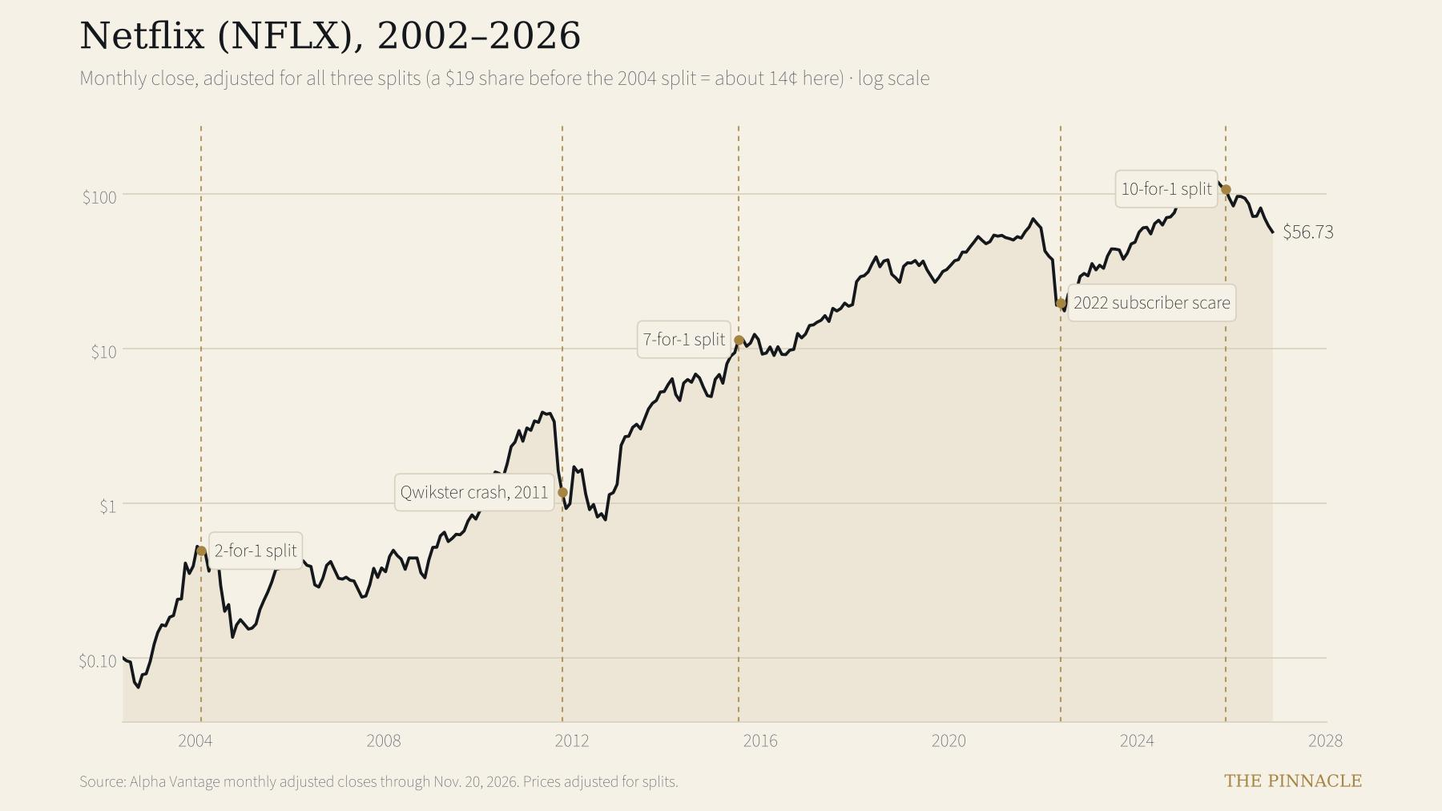
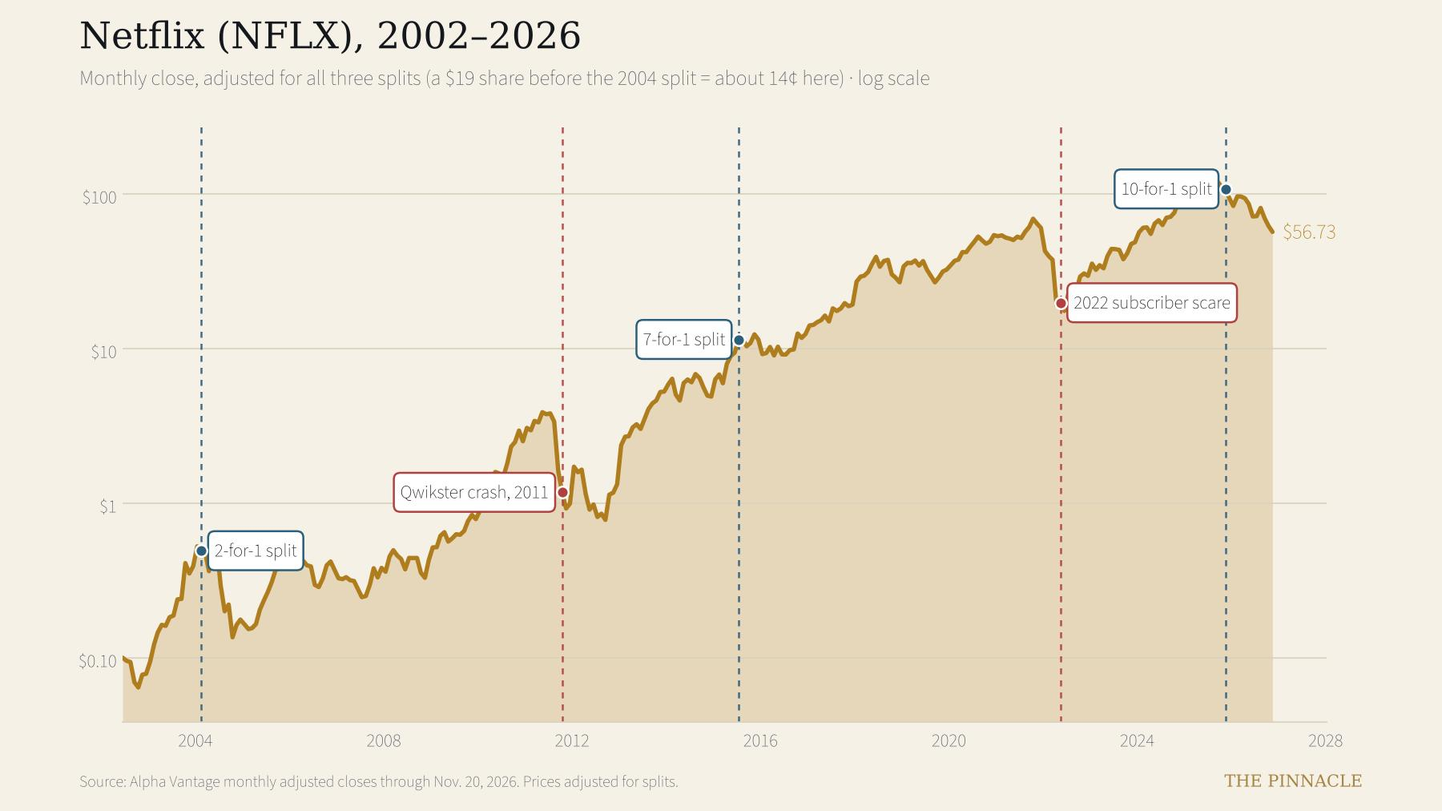
Replace AI images with real photos and charts, color charts, localize gallery art
Claude-Session: https://claude.ai/code/session_01HagCEcyDgnEGoPAKDJY6TT

diff --git a/articles/the-netflix-origin-story.html b/articles/the-netflix-origin-story.html
@@ -828,7 +828,7 @@
       </figure>
 
       <div class="article-body">
-        <p>This is the story of a tremendous win or a colossal mistake, depending on your perspective. </p><p>It begins in the mid-2000s. Cell phones were exciting and surf cams were becoming a thing. </p><p>I was still young, but I had been through a few heavy years.</p><p>After finishing a master’s in HR and Organizational Development, I landed a job I thought would launch my career. Then a health issue sidelined me and I missed a lot of work. </p><p>When I returned, I wasn’t fully myself. Eventually, I was let go.</p><p>After a few discouraging months, Prudential California Realty took a chance on me. I was hired as an administrative assistant at a branch near my apartment. It wasn’t a dream job, but I was grateful and unexpectedly intrigued by real estate.</p><p>That role eventually evolved into copywriting with the company’s corporate marketing department. The firm is now Berkshire Hathaway HomeServices California Properties, and I still work with many of the same people today. But that’s another story.</p><p>At the time, part of my job included covering the front desk for Annette, the receptionist, when she stepped out for a smoke.</p><p>I had just quit because of my health issue. I was irritable. I had gained weight and I was constantly craving nicotine. </p><p>Watching Annette head outside for a cigarette while I sat there chewing nicotine gum was truly painful.</p><p>To put it simply, I was jealous.</p><p>Meanwhile, she seemed completely unbothered by life and kept encouraging me to invest in the stock market.</p><p>“If you’re sitting here anyway,” she’d say, “you might as well learn how money works.”</p><p>Annette, if you’re somehow reading this, thank you.</p><p>I opened a brokerage account and signed up for a trial of The Motley Fool. Today I use platforms like Schwab, Interactive Brokers, and others (linked below if you’re curious).</p><p>One of The Motley Fool’s top picks at the time was Netflix.</p><p>I could never make it to Blockbuster to avoid their late fee so I was already a customer.</p><p>Having DVDs delivered to my tiny apartment felt revolutionary, and it was always a nice surprise to see the red envelope in the mailbox. </p><p>So I scraped $190 together and bought 10 shares of NFLX at $19.</p><p>It was a huge move for me. Not because $190 is small today, but at the time it felt especially significant. </p><p>I clearly remember the sense of anxiety and excitement when I was sitting at the front desk at Prudential and clicking the “Buy” button. </p><p>Incidentally, buying shares of companies you personally use and understand is an idea popularized by Peter Lynch in <i>One Up On Wall Street</i>. </p><p>I didn’t have a clue about that when I bought the stock, but the Motley Fool research seemed well-reasoned and I liked Netflix.</p><p>Here’s a link to the Peter Lynch book and a few others: </p><ul><li><p><b><a href="https://www.simonandschuster.com/books/One-Up-On-Wall-Street/Peter-Lynch/9780743200400" rel="noopener noreferrer nofollow" target="_blank">One Up On Wall Street</a></b> by Peter Lynch – The definitive guide on how to use what you already know (like my early love for Netflix) to find winning investments before the pros do.</p></li><li><p><b><a href="https://www.amazon.com/Psychology-Money-Timeless-lessons-happiness/dp/0857197610" rel="noopener noreferrer nofollow" target="_blank">The Psychology of Money</a></b> by Morgan Housel – An essential read for understanding that doing well with money isn’t necessarily about what you know; it’s about how you behave.</p></li><li><p><b><a href="https://www.magicformulainvesting.com/" rel="noopener noreferrer nofollow" target="_blank">The Little Book That Still Beats the Market</a></b> by Joel Greenblatt – A masterclass in &quot;Magic Formula&quot; investing that simplifies complex market dynamics into a strategy anyone can follow.</p></li></ul><p>Anyway, back to the story…which is, of course, an “exciting” tale of research and waiting. </p><p>Trades cost $7 back then (at Scottrade). It wasn’t (mostly free) like it is today. I didn’t fully understand exit strategies or position sizing. I just knew I didn’t want to pay commissions unless it was absolutely necessary.</p><p>The stock hit $44 and I couldn’t believe it. I was such a genius!</p><p>I had more than doubled my money in a short period of time, so I sold. I was afraid the stock would fall and my gains would disappear. </p><p>What I didn’t understand is that volatility can feel dangerous in the short term, but it is often the price of admission for extraordinary long-term returns.</p><p>If I had just had the courage to hold those 10 shares, they would be worth a staggering amount today.</p><p>That’s the difference between being right and being patient.</p><p>It’s been 20 years, and I still think about that trade.</p><p>Not because I regret the lesson.</p><p>But because I now understand what I was missing: conviction.</p><p>This story aligns with others, like <a href="the-story-of-xpo-logistics.html" rel="noopener noreferrer nofollow" target="_blank">XPO Logistics</a>, that can either be framed as incredible wins or painful missteps, depending on your time horizon.</p><p>I’m not here to pretend I’ve never made mistakes. </p><p>I’m here to show what the mistakes teach. The market can be humbling and I have often thought about what could have been. </p><p>The idea that $190 can turn into $444 remains intriguing. Losing out on $190K? Really sad, however, it’s kept me motivated to think that $190 could turn into nearly $108,000. </p><p>Anyone who has spent time in the markets understands the emotional tension:</p><ul><li><p>Selling too early</p></li><li><p>Holding too long</p></li><li><p>Watching a stock soar the day after you exit</p></li></ul><p>It can feel personal.</p><p>It isn’t.</p><p>The market doesn’t reward comfort.<br />It rewards conviction and time.</p><p>I had one.</p><p>I lacked the other.</p><p>Here are platforms I’ve used over the years in case this story resonates:</p><p>• <a href="https://www.schwab.com/client-referral?refrid=REFERWV2SI" rel="noopener noreferrer nofollow" target="_blank">Charles Schwab</a> - My go-to for <b>comprehensive research</b> and the powerful <b>thinkorswim</b> trading platform. Great for a &quot;do-it-all&quot; primary account.</p><p>• <a href="https://www.wealthfront.com/c/affiliates/invited/AFFD-A0HR-9S7A-IKDZ" rel="noopener noreferrer nofollow" target="_blank">Wealthfront</a> - Perfect for <b>automated, hands-off investing</b>. I love their &quot;Path&quot; tool for long-term planning and their high-yield cash account.</p><p>• <a href="https://ibkr.com/referral/fritts293" rel="noopener noreferrer nofollow" target="_blank">Interactive Brokers</a> - Great for <b>active traders</b>. They offer access to nearly every global market you can think of and stop-limit orders outside of regular hours!</p><p>• <a href="https://join.robinhood.com/frittsc-697bc7" rel="noopener noreferrer nofollow" target="_blank">Robinhood</a> - The best <b>mobile experience</b> for beginners. They’ve also added a great 3% match for Gold members on IRAs, which is hard to beat for retirement savings.</p><p><b>Disclaimer:</b> <i>This post is for informational purposes only and does not constitute financial advice. Some links above are referral links; I may receive a bonus if you sign up, at no extra cost to you. Always do your own research.</i></p><p><b>P.S.</b> For those wondering about the $108,000 math: Between 2004 and 2025, Netflix had three stock splits (2-for-1, 7-for-1, and 10-for-1). Those original 10 shares would have multiplied into <b>1,400 shares</b> today. It's a staggering reminder of the power of compounding.<br /></p>
+        <p>This is the story of a tremendous win or a colossal mistake, depending on your perspective. </p><p>It begins in the mid-2000s. Cell phones were exciting and surf cams were becoming a thing. </p><p>I was still young, but I had been through a few heavy years.</p><p>After finishing a master’s in HR and Organizational Development, I landed a job I thought would launch my career. Then a health issue sidelined me and I missed a lot of work. </p><p>When I returned, I wasn’t fully myself. Eventually, I was let go.</p><p>After a few discouraging months, Prudential California Realty took a chance on me. I was hired as an administrative assistant at a branch near my apartment. It wasn’t a dream job, but I was grateful and unexpectedly intrigued by real estate.</p><p>That role eventually evolved into copywriting with the company’s corporate marketing department. The firm is now Berkshire Hathaway HomeServices California Properties, and I still work with many of the same people today. But that’s another story.</p><p>At the time, part of my job included covering the front desk for Annette, the receptionist, when she stepped out for a smoke.</p><p>I had just quit because of my health issue. I was irritable. I had gained weight and I was constantly craving nicotine. </p><p>Watching Annette head outside for a cigarette while I sat there chewing nicotine gum was truly painful.</p><p>To put it simply, I was jealous.</p><p>Meanwhile, she seemed completely unbothered by life and kept encouraging me to invest in the stock market.</p><p>“If you’re sitting here anyway,” she’d say, “you might as well learn how money works.”</p><p>Annette, if you’re somehow reading this, thank you.</p><p>I opened a brokerage account and signed up for a trial of The Motley Fool. Today I use platforms like Schwab, Interactive Brokers, and others (linked below if you’re curious).</p><p>One of The Motley Fool’s top picks at the time was Netflix.</p><p>I could never make it to Blockbuster to avoid their late fee so I was already a customer.</p><p>Having DVDs delivered to my tiny apartment felt revolutionary, and it was always a nice surprise to see the red envelope in the mailbox. </p><p>So I scraped $190 together and bought 10 shares of NFLX at $19.</p><p>It was a huge move for me. Not because $190 is small today, but at the time it felt especially significant. </p><p>I clearly remember the sense of anxiety and excitement when I was sitting at the front desk at Prudential and clicking the “Buy” button. </p><p>Incidentally, buying shares of companies you personally use and understand is an idea popularized by Peter Lynch in <i>One Up On Wall Street</i>. </p><p>I didn’t have a clue about that when I bought the stock, but the Motley Fool research seemed well-reasoned and I liked Netflix.</p><p>Here’s a link to the Peter Lynch book and a few others: </p><ul><li><p><b><a href="https://www.simonandschuster.com/books/One-Up-On-Wall-Street/Peter-Lynch/9780743200400" rel="noopener noreferrer nofollow" target="_blank">One Up On Wall Street</a></b> by Peter Lynch – The definitive guide on how to use what you already know (like my early love for Netflix) to find winning investments before the pros do.</p></li><li><p><b><a href="https://www.amazon.com/Psychology-Money-Timeless-lessons-happiness/dp/0857197610" rel="noopener noreferrer nofollow" target="_blank">The Psychology of Money</a></b> by Morgan Housel – An essential read for understanding that doing well with money isn’t necessarily about what you know; it’s about how you behave.</p></li><li><p><b><a href="https://www.magicformulainvesting.com/" rel="noopener noreferrer nofollow" target="_blank">The Little Book That Still Beats the Market</a></b> by Joel Greenblatt – A masterclass in &quot;Magic Formula&quot; investing that simplifies complex market dynamics into a strategy anyone can follow.</p></li></ul><p>Anyway, back to the story…which is, of course, an “exciting” tale of research and waiting. </p><p>Trades cost $7 back then (at Scottrade). It wasn’t (mostly free) like it is today. I didn’t fully understand exit strategies or position sizing. I just knew I didn’t want to pay commissions unless it was absolutely necessary.</p><p>The stock hit $44 and I couldn’t believe it. I was such a genius!</p><p>I had more than doubled my money in a short period of time, so I sold. I was afraid the stock would fall and my gains would disappear. </p><p>What I didn’t understand is that volatility can feel dangerous in the short term, but it is often the price of admission for extraordinary long-term returns.</p><p>If I had just had the courage to hold those 10 shares, they would be worth a staggering amount today.</p><p>That’s the difference between being right and being patient.</p><p>It’s been 20 years, and I still think about that trade.</p><p>Not because I regret the lesson.</p><p>But because I now understand what I was missing: conviction.</p><p>This story aligns with others, like <a href="the-story-of-xpo-logistics.html" rel="noopener noreferrer nofollow" target="_blank">XPO Logistics</a>, that can either be framed as incredible wins or painful missteps, depending on your time horizon.</p><p>I’m not here to pretend I’ve never made mistakes. </p><p>I’m here to show what the mistakes teach. The market can be humbling and I have often thought about what could have been. </p><p>The idea that $190 can turn into $444 remains intriguing. Losing out on six figures? Really sad. Still, it keeps me motivated to remember that $190 could have turned into nearly $108,000 at the stock’s early-2026 high, and still about $79,000 at today’s price. </p><p>Anyone who has spent time in the markets understands the emotional tension:</p><ul><li><p>Selling too early</p></li><li><p>Holding too long</p></li><li><p>Watching a stock soar the day after you exit</p></li></ul><p>It can feel personal.</p><p>It isn’t.</p><p>The market doesn’t reward comfort.<br />It rewards conviction and time.</p><p>I had one.</p><p>I lacked the other.</p><p>Here are platforms I’ve used over the years in case this story resonates:</p><p>• <a href="https://www.schwab.com/client-referral?refrid=REFERWV2SI" rel="noopener noreferrer nofollow" target="_blank">Charles Schwab</a> - My go-to for <b>comprehensive research</b> and the powerful <b>thinkorswim</b> trading platform. Great for a &quot;do-it-all&quot; primary account.</p><p>• <a href="https://www.wealthfront.com/c/affiliates/invited/AFFD-A0HR-9S7A-IKDZ" rel="noopener noreferrer nofollow" target="_blank">Wealthfront</a> - Perfect for <b>automated, hands-off investing</b>. I love their &quot;Path&quot; tool for long-term planning and their high-yield cash account.</p><p>• <a href="https://ibkr.com/referral/fritts293" rel="noopener noreferrer nofollow" target="_blank">Interactive Brokers</a> - Great for <b>active traders</b>. They offer access to nearly every global market you can think of and stop-limit orders outside of regular hours!</p><p>• <a href="https://join.robinhood.com/frittsc-697bc7" rel="noopener noreferrer nofollow" target="_blank">Robinhood</a> - The best <b>mobile experience</b> for beginners. They’ve also added a great 3% match for Gold members on IRAs, which is hard to beat for retirement savings.</p><p><b>Disclaimer:</b> <i>This post is for informational purposes only and does not constitute financial advice. Some links above are referral links; I may receive a bonus if you sign up, at no extra cost to you. Always do your own research.</i></p><p><b>P.S.</b> For those wondering about the $108,000 math: Between 2004 and 2025, Netflix had three stock splits (2-for-1, 7-for-1, and 10-for-1). Those original 10 shares would have multiplied into <b>1,400 shares</b> today. At about $77 a share in February 2026, that was roughly $107,800; at $56.73 on November 20, 2026, it’s about $79,400. It's a staggering reminder of the power of compounding.<br /></p>
       </div>
 
       <div class="article-tags">

diff --git a/index.html b/index.html
@@ -916,7 +916,7 @@
       </article>
       <article class="card">
         <a href="articles/legacy-yields-a-tale-of-two-buffetts.html" style="display:block;text-decoration:none;color:inherit;">
-          <div class="card-image lifestyle" style="background: linear-gradient(180deg, rgba(20,23,28,0.0) 60%, rgba(20,23,28,0.4) 100%), url('images/jimmy-buffett-warren-buffett-philanthropy.jpg'); background-size: cover; background-position: center top;"></div>
+          <div class="card-image lifestyle" style="background: linear-gradient(180deg, rgba(20,23,28,0.0) 60%, rgba(20,23,28,0.4) 100%), url('images/jimmy-and-warren-buffett.jpg'); background-size: cover; background-position: center top;"></div>
           <div class="card-category">Lifestyle</div>
           <h3>Legacy Yields: A Tale of Two Buffetts</h3>
           <p>How Warren Buffett and Jimmy Buffett built two of the most consequential philanthropic legacies in American life, and why the Giving Pledge increasingly runs on legacy assets.</p>
@@ -934,7 +934,7 @@
       </article>
       <article class="card">
         <a href="articles/is-using-margin-ever-a-good-idea.html" style="display:block;text-decoration:none;color:inherit;">
-          <div class="card-image markets" style="background: linear-gradient(180deg, rgba(20,23,28,0.0) 60%, rgba(20,23,28,0.4) 100%), url('images/ramen-or-financial-stability-pop-art.jpg'); background-size: cover; background-position: center;"></div>
+          <div class="card-image markets" style="background: linear-gradient(180deg, rgba(20,23,28,0.0) 60%, rgba(20,23,28,0.4) 100%), url('images/nyse-crowd-1929.jpg'); background-size: cover; background-position: center;"></div>
           <div class="card-category">Markets</div>
           <h3>Is Using Margin Ever a Good Idea?</h3>
           <p>After 20 years in the markets, the one decision I keep going back to is the one I didn&#x27;t make.</p>
@@ -943,7 +943,7 @@
       </article>
       <article class="card">
         <a href="articles/what-the-margin-data-is-telling-us.html" style="display:block;text-decoration:none;color:inherit;">
-          <div class="card-image markets" style="background: linear-gradient(180deg, rgba(20,23,28,0.0) 60%, rgba(20,23,28,0.4) 100%), url('images/margin-debt-forced-liquidation-cascade.jpg'); background-size: cover; background-position: center top;"></div>
+          <div class="card-image markets" style="background: linear-gradient(180deg, rgba(20,23,28,0.0) 60%, rgba(20,23,28,0.4) 100%), url('images/nyt-crash-1929-headline.jpg'); background-size: cover; background-position: center top;"></div>
           <div class="card-category">Markets</div>
           <h3>What the Margin Data Is Telling Us</h3>
           <p>FINRA, IBKR, and the slow exhale after a record run.</p>
@@ -979,7 +979,7 @@
       </article>
       <article class="card">
         <a href="articles/female-power-players.html" style="display:block;text-decoration:none;color:inherit;">
-          <div class="card-image markets" style="background: linear-gradient(180deg, rgba(20,23,28,0.0) 60%, rgba(20,23,28,0.4) 100%), url('https://media.beehiiv.com/cdn-cgi/image/fit=scale-down,format=auto,onerror=redirect,quality=80/uploads/asset/file/96699286-00a0-4a13-9986-67bf908eeaf2/image.jpg'); background-size: cover; background-position: center;"></div>
+          <div class="card-image markets" style="background: linear-gradient(180deg, rgba(20,23,28,0.0) 60%, rgba(20,23,28,0.4) 100%), url('images/sara-blakely-2012.jpg'); background-size: cover; background-position: center;"></div>
           <div class="card-category">Markets</div>
           <h3>Female Power Players</h3>
           <p>Why the Women Who Built Empires Deserve More Than a Month</p>
@@ -1015,7 +1015,7 @@
       </article>
       <article class="card">
         <a href="articles/stocks-vs-real-estate.html" style="display:block;text-decoration:none;color:inherit;">
-          <div class="card-image markets" style="background: linear-gradient(180deg, rgba(20,23,28,0.0) 60%, rgba(20,23,28,0.4) 100%), url('https://media.beehiiv.com/cdn-cgi/image/fit=scale-down,format=auto,onerror=redirect,quality=80/uploads/asset/file/4863aa6e-33e6-4172-81a1-0bebd9242bd3/Shattered_view_of_home_and_market_rise.png'); background-size: cover; background-position: center;"></div>
+          <div class="card-image markets" style="background: linear-gradient(180deg, rgba(20,23,28,0.0) 60%, rgba(20,23,28,0.4) 100%), url('images/ai-stocks-vs-real-estate.jpg'); background-size: cover; background-position: center;"></div>
           <div class="card-category">Markets</div>
           <h3>Stocks vs. Real Estate: How to Evaluate An Asset Before You Buy</h3>
           <p>Both markets reward patience, punish impulse, and have a long history of hiding problems in plain sight. Here is how I approach both.</p>
@@ -1060,7 +1060,7 @@
       </article>
       <article class="card">
         <a href="articles/the-story-of-the-movie-bottle-shock.html" style="display:block;text-decoration:none;color:inherit;">
-          <div class="card-image lifestyle" style="background: linear-gradient(180deg, rgba(20,23,28,0.0) 60%, rgba(20,23,28,0.4) 100%), url('https://media.beehiiv.com/cdn-cgi/image/fit=scale-down,format=auto,onerror=redirect,quality=80/uploads/asset/file/e2fcec11-0ddf-48b8-b8af-50351b7095ff/California_vineyard_and_wine_history.png'); background-size: cover; background-position: center;"></div>
+          <div class="card-image lifestyle" style="background: linear-gradient(180deg, rgba(20,23,28,0.0) 60%, rgba(20,23,28,0.4) 100%), url('images/napa-valley-vineyard-highsmith.jpg'); background-size: cover; background-position: center;"></div>
           <div class="card-category">Lifestyle</div>
           <h3>The Story of the Movie “Bottle Shock”</h3>
           <p>How Napa Valley Got its Street Cred</p>

diff --git a/categories/markets.html b/categories/markets.html
@@ -841,7 +841,7 @@
     <div class="grid">
       <article class="card">
         <a href="../articles/is-using-margin-ever-a-good-idea.html" style="display:block;text-decoration:none;color:inherit;">
-          <div class="card-image markets" style="background: linear-gradient(180deg, rgba(20,23,28,0.0) 60%, rgba(20,23,28,0.4) 100%), url('../images/ramen-or-financial-stability-pop-art.jpg'); background-size: cover; background-position: center;"></div>
+          <div class="card-image markets" style="background: linear-gradient(180deg, rgba(20,23,28,0.0) 60%, rgba(20,23,28,0.4) 100%), url('../images/nyse-crowd-1929.jpg'); background-size: cover; background-position: center;"></div>
           <div class="card-category">Markets</div>
           <h3>Is Using Margin Ever a Good Idea?</h3>
           <p>After 20 years in the markets, the one decision I keep going back to is the one I didn&#x27;t make.</p>
@@ -850,7 +850,7 @@
       </article>
       <article class="card">
         <a href="../articles/what-the-margin-data-is-telling-us.html" style="display:block;text-decoration:none;color:inherit;">
-          <div class="card-image markets" style="background: linear-gradient(180deg, rgba(20,23,28,0.0) 60%, rgba(20,23,28,0.4) 100%), url('../images/margin-debt-forced-liquidation-cascade.jpg'); background-size: cover; background-position: center top;"></div>
+          <div class="card-image markets" style="background: linear-gradient(180deg, rgba(20,23,28,0.0) 60%, rgba(20,23,28,0.4) 100%), url('../images/nyt-crash-1929-headline.jpg'); background-size: cover; background-position: center top;"></div>
           <div class="card-category">Markets</div>
           <h3>What the Margin Data Is Telling Us</h3>
           <p>FINRA, IBKR, and the slow exhale after a record run.</p>
@@ -859,7 +859,7 @@
       </article>
       <article class="card">
         <a href="../articles/female-power-players.html" style="display:block;text-decoration:none;color:inherit;">
-          <div class="card-image markets" style="background: linear-gradient(180deg, rgba(20,23,28,0.0) 60%, rgba(20,23,28,0.4) 100%), url('https://media.beehiiv.com/cdn-cgi/image/fit=scale-down,format=auto,onerror=redirect,quality=80/uploads/asset/file/96699286-00a0-4a13-9986-67bf908eeaf2/image.jpg'); background-size: cover; background-position: center;"></div>
+          <div class="card-image markets" style="background: linear-gradient(180deg, rgba(20,23,28,0.0) 60%, rgba(20,23,28,0.4) 100%), url('../images/sara-blakely-2012.jpg'); background-size: cover; background-position: center;"></div>
           <div class="card-category">Markets</div>
           <h3>Female Power Players</h3>
           <p>Why the Women Who Built Empires Deserve More Than a Month</p>
@@ -877,7 +877,7 @@
       </article>
       <article class="card">
         <a href="../articles/stocks-vs-real-estate.html" style="display:block;text-decoration:none;color:inherit;">
-          <div class="card-image markets" style="background: linear-gradient(180deg, rgba(20,23,28,0.0) 60%, rgba(20,23,28,0.4) 100%), url('https://media.beehiiv.com/cdn-cgi/image/fit=scale-down,format=auto,onerror=redirect,quality=80/uploads/asset/file/4863aa6e-33e6-4172-81a1-0bebd9242bd3/Shattered_view_of_home_and_market_rise.png'); background-size: cover; background-position: center;"></div>
+          <div class="card-image markets" style="background: linear-gradient(180deg, rgba(20,23,28,0.0) 60%, rgba(20,23,28,0.4) 100%), url('../images/ai-stocks-vs-real-estate.jpg'); background-size: cover; background-position: center;"></div>
           <div class="card-category">Markets</div>
           <h3>Stocks vs. Real Estate: How to Evaluate An Asset Before You Buy</h3>
           <p>Both markets reward patience, punish impulse, and have a long history of hiding problems in plain sight. Here is how I approach both.</p>

diff --git a/articles/is-using-margin-ever-a-good-idea.html b/articles/is-using-margin-ever-a-good-idea.html
@@ -823,9 +823,9 @@
       </header>
 
       <figure class="article-lead-image">
-        <img src="../images/ramen-or-financial-stability-pop-art.jpg" alt="Pop-art illustration of four neon-colored Super Noodles ramen cups — a tongue-in-cheek visual for the choice between Ramen and a $450,000 mortgage at 8 percent.">
+        <img src="../images/nyse-crowd-1929.jpg" alt="Crowds gathered on Wall Street outside the New York Stock Exchange during the October 1929 crash">
         
-      <figcaption>Illustration: AI-generated</figcaption>
+      <figcaption>Crowds outside the New York Stock Exchange, October 1929. Photo: Associated Press, public domain.</figcaption>
       </figure>
 
       <div class="article-body">
@@ -845,7 +845,7 @@
         <p>In the run-up to the <a href="https://www.federalreservehistory.org/essays/stock-market-crash-of-1929" rel="noopener noreferrer" target="_blank">1929 crash</a>, brokers were lending up to <strong>90 percent</strong> of a stock purchase. With such a high amount of leverage, a stock barely had to fall for the equity to vanish, at which point came the dreaded margin call.</p>
         <p>That last word was literal in 1929. The phone would ring, and the broker would inform the account holder that the collateral had eroded and more cash was needed by the end of the day, or the position would be liquidated. The cascading sales when the market started to drop were not panic in the abstract.</p>
         <p>These were forced liquidation events. People who did not have the cash on hand to cover the required 10 percent equity had their stocks sold out from under them at whatever price the market would bear.</p>
-        <figure class="article-inline-image"><img src="../images/bear-market-margin-call-cascade-1929.jpg" alt="Vintage cartoon bear in a bowler hat and three-piece suit skiing down a stock chart, with margin-call notices and red stock tickers flying past, against a 1929-era city backdrop"><figcaption>The dreaded margin call: vintage 1929, dressed in a three-piece suit, very much still alive in 2026.</figcaption></figure>
+        
         <p>The infrastructure of the modern market was being built in real time, as people lost fortunes in moments. The lesson was that 90 percent leverage was not a feature, it was a fuse.</p>
         <p><a href="https://www.federalreserve.gov/supervisionreg/regtcg.htm" rel="noopener noreferrer" target="_blank">Regulation T</a> came out of the Securities Exchange Act of 1934 and capped initial margin at 50 percent. So, the modern math goes like this. An investor puts in $50,000. The broker puts in $50,000. The combined position is $100,000.</p>
         <p>FINRA's regulatory minimum for <a href="https://www.finra.org/investors/insights/margin-calls" rel="noopener noreferrer" target="_blank">maintenance margin</a> is 25 percent, but most retail investors never actually see that floor. Brokerage firms set their own "house requirements," which typically run 30 to 40 percent depending on the security. So, in practice, the cushion before a maintenance call kicks in is closer to 30 percent equity than 25. Once an account hits the line, the "call" still happens, though in modern brokerages it's mostly automated. The broker can liquidate without even calling you first.</p>

diff --git a/articles/bottle-shock.html b/articles/bottle-shock.html
@@ -17,11 +17,11 @@
   <meta property="og:description" content="The true story behind Bottle Shock and the 1976 Judgment of Paris wine tasting that put Napa on the map.">
   <meta property="og:type" content="article">
   <meta property="og:url" content="https://thepinnacle.ink/articles/bottle-shock.html">
-  <meta property="og:image" content="https://media.beehiiv.com/cdn-cgi/image/fit=scale-down,quality=80,format=auto,onerror=redirect/uploads/asset/file/e2fcec11-0ddf-48b8-b8af-50351b7095ff/California_vineyard_and_wine_history.png">
+  <meta property="og:image" content="https://thepinnacle.ink/images/napa-valley-vineyard-highsmith.jpg">
   <meta name="twitter:card" content="summary_large_image">
   <meta name="twitter:title" content="Bottle Shock: How Napa Valley Got its Street Cred | The Pinnacle">
   <meta name="twitter:description" content="The true story behind the 1976 Judgment of Paris wine tasting.">
-  <meta name="twitter:image" content="https://media.beehiiv.com/cdn-cgi/image/fit=scale-down,quality=80,format=auto,onerror=redirect/uploads/asset/file/e2fcec11-0ddf-48b8-b8af-50351b7095ff/California_vineyard_and_wine_history.png">
+  <meta name="twitter:image" content="https://thepinnacle.ink/images/napa-valley-vineyard-highsmith.jpg">
   <link rel="canonical" href="https://thepinnacle.ink/articles/bottle-shock.html">
   <link rel="icon" href="https://media.beehiiv.com/cdn-cgi/image/format=auto,onerror=redirect/uploads/asset/file/8d5e6305-c280-48ad-bbe3-043f383b59fe/paper_hands_logo.png" type="image/png">
   <link rel="preconnect" href="https://fonts.googleapis.com">
@@ -43,7 +43,7 @@
 <div class="article-page-wrapper">
   <div class="article-page-main">
     <div class="article-body">
-      <img class="hero-image" src="https://media.beehiiv.com/cdn-cgi/image/fit=scale-down,quality=80,format=auto,onerror=redirect/uploads/asset/file/e2fcec11-0ddf-48b8-b8af-50351b7095ff/California_vineyard_and_wine_history.png" alt="California Vineyard and Wine History" width="760" height="428" loading="lazy">
+      <img class="hero-image" src="../images/napa-valley-vineyard-highsmith.jpg" alt="California Vineyard and Wine History" width="760" height="428" loading="lazy">
       <p>I love movies that are based on a true story and the 2006-vintage &ldquo;<a href="https://www.imdb.com/title/tt0914797/" target="_blank" rel="noopener">Bottle Shock</a>&rdquo; has always been a favorite. But what's actually true and what's artistic license? Read on&hellip;</p>
       <p>The climax of the movie centers on the Judgment of Paris from 1976, a blind taste test that placed Napa on the radar of many oenophiles. And although Napa was already fairly well known, as the Robert Mondavi Winery was established there in 1966, the Judgment of Paris was the catalyst for the growth of the Napa Valley wine industry.</p>
       <p>The roots of wine-making in Napa date to the 1800s. The industry withered significantly as a result of Prohibition, however, until the blind tasting brought credibility to American wine producers.</p>

diff --git a/studio.html b/studio.html
@@ -71,19 +71,19 @@
       <a class="read" href="articles/is-using-margin-ever-a-good-idea.html">Read: Is Using Margin Ever a Good Idea?</a>
     </div>
     <div class="piece">
-      <img src="https://media.beehiiv.com/cdn-cgi/image/fit=scale-down,format=auto,onerror=redirect,quality=80/uploads/asset/file/96699286-00a0-4a13-9986-67bf908eeaf2/image.jpg" alt="Silhouetted women in evening gowns around a shattering glass sculpture on a chessboard floor" loading="lazy">
+      <img src="images/ai-female-power-players.jpg" alt="Silhouetted women in evening gowns around a shattering glass sculpture on a chessboard floor" loading="lazy">
       <h2>Glass Ceilings, Shattered</h2>
       <p>For the women who rewrote the rules of wealth and giving.</p>
       <a class="read" href="articles/female-power-players.html">Read: Female Power Players</a>
     </div>
     <div class="piece">
-      <img src="https://media.beehiiv.com/cdn-cgi/image/fit=scale-down,format=auto,onerror=redirect,quality=80/uploads/asset/file/4863aa6e-33e6-4172-81a1-0bebd9242bd3/Shattered_view_of_home_and_market_rise.png" alt="A lit family home above a rising stock chart seen through cracked glass" loading="lazy">
+      <img src="images/ai-stocks-vs-real-estate.jpg" alt="A lit family home above a rising stock chart seen through cracked glass" loading="lazy">
       <h2>House or Market?</h2>
       <p>Two ways to build wealth, one fragile window to choose through.</p>
       <a class="read" href="articles/stocks-vs-real-estate.html">Read: Stocks vs. Real Estate</a>
     </div>
     <div class="piece">
-      <img src="https://media.beehiiv.com/cdn-cgi/image/fit=scale-down,format=auto,onerror=redirect,quality=80/uploads/asset/file/e2fcec11-0ddf-48b8-b8af-50351b7095ff/California_vineyard_and_wine_history.png" alt="Golden-hour vineyard above a vintage wine tasting scene titled When California Beat France" loading="lazy">
+      <img src="images/ai-bottle-shock-title-card.jpg" alt="Golden-hour vineyard above a vintage wine tasting scene titled When California Beat France" loading="lazy">
       <h2>When California Beat France</h2>
       <p>A title card for the 1976 tasting that changed the wine world.</p>
       <a class="read" href="articles/the-story-of-the-movie-bottle-shock.html">Read: The Story of the Movie "Bottle Shock"</a>

diff --git a/categories/lifestyle.html b/categories/lifestyle.html
@@ -850,7 +850,7 @@
       </article>
       <article class="card">
         <a href="../articles/legacy-yields-a-tale-of-two-buffetts.html" style="display:block;text-decoration:none;color:inherit;">
-          <div class="card-image lifestyle" style="background: linear-gradient(180deg, rgba(20,23,28,0.0) 60%, rgba(20,23,28,0.4) 100%), url('../images/jimmy-buffett-warren-buffett-philanthropy.jpg'); background-size: cover; background-position: center top;"></div>
+          <div class="card-image lifestyle" style="background: linear-gradient(180deg, rgba(20,23,28,0.0) 60%, rgba(20,23,28,0.4) 100%), url('../images/jimmy-and-warren-buffett.jpg'); background-size: cover; background-position: center top;"></div>
           <div class="card-category">Lifestyle</div>
           <h3>Legacy Yields: A Tale of Two Buffetts</h3>
           <p>How Warren Buffett and Jimmy Buffett built two of the most consequential philanthropic legacies in American life, and why the Giving Pledge increasingly runs on legacy assets.</p>
@@ -895,7 +895,7 @@
       </article>
       <article class="card">
         <a href="../articles/the-story-of-the-movie-bottle-shock.html" style="display:block;text-decoration:none;color:inherit;">
-          <div class="card-image lifestyle" style="background: linear-gradient(180deg, rgba(20,23,28,0.0) 60%, rgba(20,23,28,0.4) 100%), url('https://media.beehiiv.com/cdn-cgi/image/fit=scale-down,format=auto,onerror=redirect,quality=80/uploads/asset/file/e2fcec11-0ddf-48b8-b8af-50351b7095ff/California_vineyard_and_wine_history.png'); background-size: cover; background-position: center;"></div>
+          <div class="card-image lifestyle" style="background: linear-gradient(180deg, rgba(20,23,28,0.0) 60%, rgba(20,23,28,0.4) 100%), url('../images/napa-valley-vineyard-highsmith.jpg'); background-size: cover; background-position: center;"></div>
           <div class="card-category">Lifestyle</div>
           <h3>The Story of the Movie “Bottle Shock”</h3>
           <p>How Napa Valley Got its Street Cred</p>

diff --git a/articles/love-is-bald.html b/articles/love-is-bald.html
@@ -91,8 +91,8 @@
 <p><em>The Pinnacle is a free newsletter covering luxury real estate, stock market insights, and the aspirational lifestyle. <a href="https://thepinnacle.beehiiv.com/subscribe" target="_blank" rel="noopener">Subscribe here.</a></em></p>
 <div class="related-section"><h3>Keep Reading</h3><div class="related-grid">
 <a href="lady-leslie-profile.html" class="related-card"><img src="https://media.beehiiv.com/cdn-cgi/image/fit=scale-down,quality=80,format=auto,onerror=redirect/uploads/asset/file/a8f95889-1bf1-40d9-936f-14a02b8efa41/Lady_Leslie.jpg" alt="Lady Leslie" width="400" height="300" loading="lazy"><h4>True Wealth: The Story of Lady Leslie Ridley-Tree</h4></a>
-<a href="female-power-players.html" class="related-card"><img src="https://media.beehiiv.com/cdn-cgi/image/fit=scale-down,quality=80,format=auto,onerror=redirect/uploads/asset/file/96699286-00a0-4a13-9986-67bf908eeaf2/image.jpg" alt="Female Power Players" width="400" height="300" loading="lazy"><h4>Female Power Players: Why the Women Who Built Empires Deserve More Than a Month</h4></a>
-<a href="bottle-shock.html" class="related-card"><img src="https://media.beehiiv.com/cdn-cgi/image/fit=scale-down,quality=80,format=auto,onerror=redirect/uploads/asset/file/e2fcec11-0ddf-48b8-b8af-50351b7095ff/California_vineyard_and_wine_history.png" alt="Bottle Shock" width="400" height="300" loading="lazy"><h4>The Story of the Movie "Bottle Shock"</h4></a>
+<a href="female-power-players.html" class="related-card"><img src="../images/sara-blakely-2012.jpg" alt="Female Power Players" width="400" height="300" loading="lazy"><h4>Female Power Players: Why the Women Who Built Empires Deserve More Than a Month</h4></a>
+<a href="bottle-shock.html" class="related-card"><img src="../images/napa-valley-vineyard-highsmith.jpg" alt="Bottle Shock" width="400" height="300" loading="lazy"><h4>The Story of the Movie "Bottle Shock"</h4></a>
 </div></div>
 </div>
 </div><!-- end article-page-main -->

diff --git a/articles/lady-leslie-profile.html b/articles/lady-leslie-profile.html
@@ -84,7 +84,7 @@
 <p>If this story inspired you, consider <a href="https://buymeacoffee.com/frittscaus3" target="_blank" rel="noopener">buying me a coffee</a> so I can keep sharing stories like this one.</p>
 <div class="related-section"><h3>Keep Reading</h3><div class="related-grid">
 <a href="lady-leslie-estate.html" class="related-card"><img src="https://media.beehiiv.com/cdn-cgi/image/fit=scale-down,quality=80,format=auto,onerror=redirect/uploads/asset/file/177154af-ff03-4c82-a4be-d67f25a271d5/lady-leslie-ridley-tree-montecito-estate-front.jpg.jpg" alt="Lady Leslie Estate" width="400" height="300" loading="lazy"><h4>Lady Leslie's Montecito Estate Now for Sale at $18.95M</h4></a>
-<a href="female-power-players.html" class="related-card"><img src="https://media.beehiiv.com/cdn-cgi/image/fit=scale-down,quality=80,format=auto,onerror=redirect/uploads/asset/file/96699286-00a0-4a13-9986-67bf908eeaf2/image.jpg" alt="Female Power Players" width="400" height="300" loading="lazy"><h4>Female Power Players: Why the Women Who Built Empires Deserve More Than a Month</h4></a>
+<a href="female-power-players.html" class="related-card"><img src="../images/sara-blakely-2012.jpg" alt="Female Power Players" width="400" height="300" loading="lazy"><h4>Female Power Players: Why the Women Who Built Empires Deserve More Than a Month</h4></a>
 <a href="love-is-bald.html" class="related-card"><img src="../images/love-is-bald.jpg.jpg" alt="Love is Bald" width="400" height="300" loading="lazy"><h4>Love is Bald: Supporting Cancer Warriors in North Carolina</h4></a>
 </div></div>
 </div>

diff --git a/articles/about.html b/articles/about.html
@@ -68,7 +68,7 @@
         <div class="related-grid">
           <a href="beyond-the-charts.html" class="related-card"><img src="https://media.beehiiv.com/cdn-cgi/image/fit=scale-down,quality=80,format=auto,onerror=redirect/uploads/asset/file/9d09edd8-98a3-4990-a053-f80e23cd4aa8/NVIDIA_stock_trading_on_TIPRANKS_platform.png" alt="Beyond the Charts" width="400" height="267" loading="lazy"><h4>Beyond the Charts: How I Use TipRanks and IBKR to Filter Market Noise</h4></a>
           <a href="xpo-logistics.html" class="related-card"><img src="../images/xpo-stock-chart-2008-2026.jpg" alt="XPO Logistics" width="400" height="267" loading="lazy"><h4>The Story of XPO Logistics: A 10,000% Lesson in Conviction</h4></a>
-          <a href="stocks-vs-real-estate.html" class="related-card"><img src="https://media.beehiiv.com/cdn-cgi/image/fit=scale-down,quality=80,format=auto,onerror=redirect/uploads/asset/file/4863aa6e-33e6-4172-81a1-0bebd9242bd3/Shattered_view_of_home_and_market_rise.png" alt="Stocks vs Real Estate" width="400" height="267" loading="lazy"><h4>Stocks vs. Real Estate: How to Evaluate An Asset Before You Buy</h4></a>
+          <a href="stocks-vs-real-estate.html" class="related-card"><img src="../images/ai-stocks-vs-real-estate.jpg" alt="Stocks vs Real Estate" width="400" height="267" loading="lazy"><h4>Stocks vs. Real Estate: How to Evaluate An Asset Before You Buy</h4></a>
         </div>
       </div>
     </div>

diff --git a/articles/xpo-logistics.html b/articles/xpo-logistics.html
@@ -91,7 +91,7 @@
         <div class="related-grid">
           <a href="netflix-story.html" class="related-card"><img src="../images/netflix-stock-chart-2002-2026.jpg" alt="Netflix" width="400" height="267" loading="lazy"><h4>The Netflix Origin Story</h4></a>
           <a href="beyond-the-charts.html" class="related-card"><img src="https://media.beehiiv.com/cdn-cgi/image/fit=scale-down,quality=80,format=auto,onerror=redirect/uploads/asset/file/9d09edd8-98a3-4990-a053-f80e23cd4aa8/NVIDIA_stock_trading_on_TIPRANKS_platform.png" alt="TipRanks" width="400" height="267" loading="lazy"><h4>Beyond the Charts: How I Use TipRanks and IBKR</h4></a>
-          <a href="stocks-vs-real-estate.html" class="related-card"><img src="https://media.beehiiv.com/cdn-cgi/image/fit=scale-down,quality=80,format=auto,onerror=redirect/uploads/asset/file/4863aa6e-33e6-4172-81a1-0bebd9242bd3/Shattered_view_of_home_and_market_rise.png" alt="Stocks vs Real Estate" width="400" height="267" loading="lazy"><h4>Stocks vs. Real Estate: How to Evaluate An Asset</h4></a>
+          <a href="stocks-vs-real-estate.html" class="related-card"><img src="../images/ai-stocks-vs-real-estate.jpg" alt="Stocks vs Real Estate" width="400" height="267" loading="lazy"><h4>Stocks vs. Real Estate: How to Evaluate An Asset</h4></a>
         </div>
       </div>
     </div>

diff --git a/articles/beyond-the-charts.html b/articles/beyond-the-charts.html
@@ -78,7 +78,7 @@
         <div class="related-grid">
           <a href="netflix-story.html" class="related-card"><img src="../images/netflix-stock-chart-2002-2026.jpg" alt="Netflix" width="400" height="267" loading="lazy"><h4>The Netflix Origin Story</h4></a>
           <a href="xpo-logistics.html" class="related-card"><img src="../images/xpo-stock-chart-2008-2026.jpg" alt="XPO" width="400" height="267" loading="lazy"><h4>The Story of XPO Logistics</h4></a>
-          <a href="stocks-vs-real-estate.html" class="related-card"><img src="https://media.beehiiv.com/cdn-cgi/image/fit=scale-down,quality=80,format=auto,onerror=redirect/uploads/asset/file/4863aa6e-33e6-4172-81a1-0bebd9242bd3/Shattered_view_of_home_and_market_rise.png" alt="Stocks vs Real Estate" width="400" height="267" loading="lazy"><h4>Stocks vs. Real Estate: How to Evaluate An Asset</h4></a>
+          <a href="stocks-vs-real-estate.html" class="related-card"><img src="../images/ai-stocks-vs-real-estate.jpg" alt="Stocks vs Real Estate" width="400" height="267" loading="lazy"><h4>Stocks vs. Real Estate: How to Evaluate An Asset</h4></a>
         </div>
       </div>
     </div>
